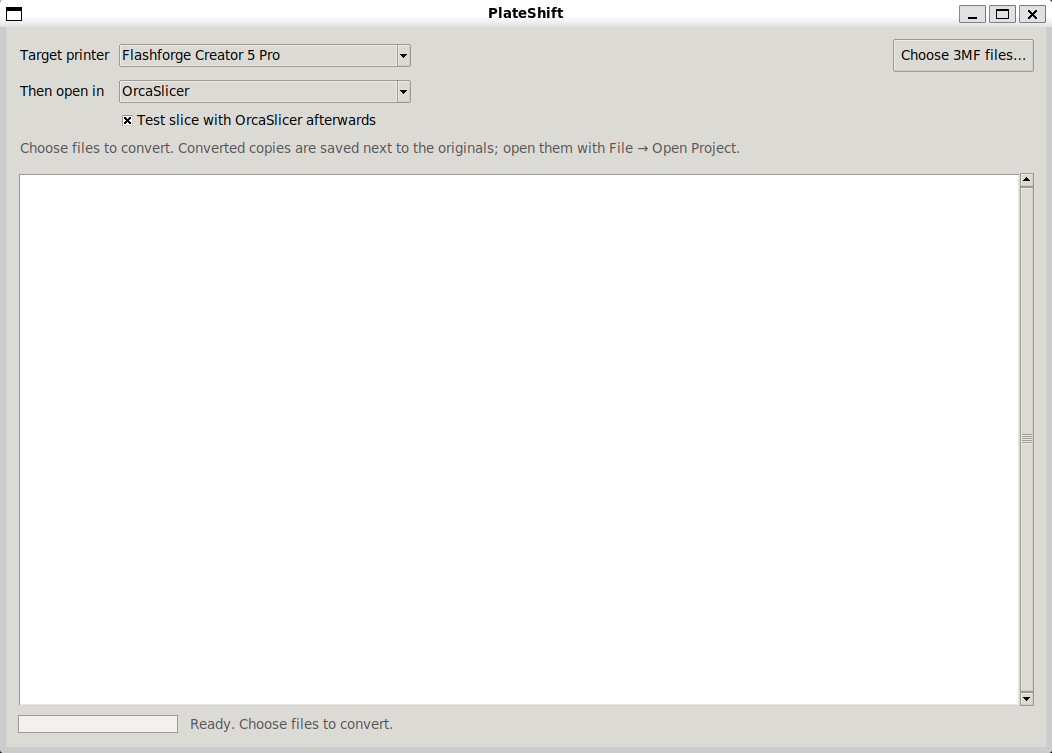
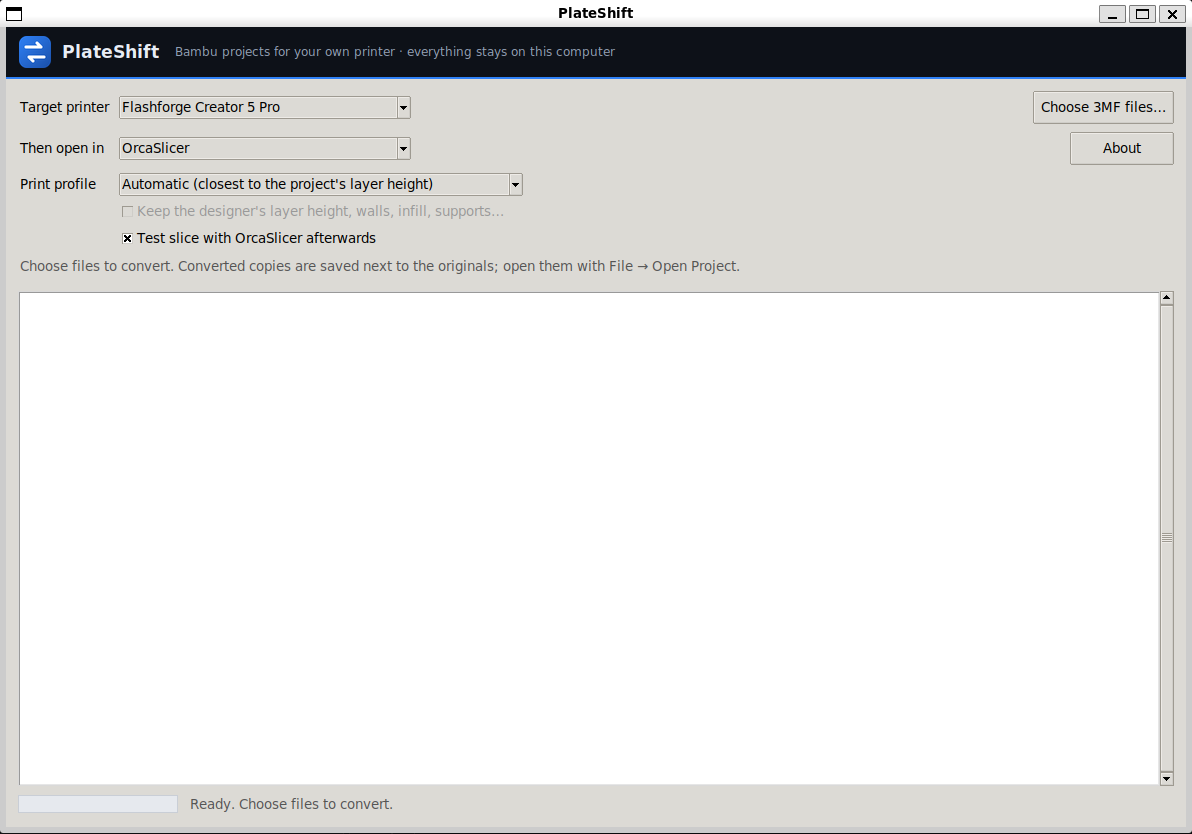
Fit the colour panel in narrow windows and Mac fonts; new Linux screenshots
The filament preset boxes now stretch with the window instead of having a
fixed width that ran off the edge on the Mac, and the hint line wraps.

Changed region(s): [[0.0, 0.0, 1.0, 0.9774]]

diff --git a/plateshift/gui.py b/plateshift/gui.py
@@ -187,6 +187,8 @@ class App:
                               text="Choose files, or drop .3mf files on this window. Converted copies are "
                                    "saved next to the originals; open them with File → Open Project.")
         self.hint.pack(fill="x")
+        # wrap rather than cut off when the window is narrow
+        self.hint.bind("<Configure>", lambda e: self.hint.configure(wraplength=max(200, e.width - 24)))
 
         self.plan_frame = ttk.Frame(root, padding=(12, 6, 12, 0))
 
@@ -416,6 +418,9 @@ class App:
 
         self.heads_frame = ttk.Frame(box)
         self.heads_frame.pack(side="left", fill="both", expand=True, anchor="n")
+        # the preset boxes take whatever room there is, so a narrow window (or the
+        # mac's bigger fonts) doesn't push them off the edge
+        self.heads_frame.columnconfigure(2, weight=1)
         options = sorted(plan.candidates, key=lambda p: (not p.get("_user"), p["name"].lower()))
         self.preset_names = {_display(p): p["name"] for p in options}
         self.head_vars: dict[int, tk.StringVar] = {}
@@ -467,7 +472,7 @@ class App:
                 var.set(by_name.get(name, ""))
                 self._quiet = False
             ttk.Combobox(self.heads_frame, textvariable=var, values=list(self.preset_names),
-                         width=48, state="readonly").grid(row=row, column=2, sticky="we", padx=(8, 0), pady=1)
+                         width=30, state="readonly").grid(row=row, column=2, sticky="we", padx=(8, 0), pady=1)
             if note:  # e.g. no TPU preset, so PLA was used
                 row += 1
                 ttk.Label(self.heads_frame, text=f"⚠ {note}", foreground=WARN_COLOUR).grid(

diff --git a/tools/screenshots.py b/tools/screenshots.py
@@ -33,7 +33,7 @@ def main() -> int:
     args.out.mkdir(parents=True, exist_ok=True)
 
     work = Path(tempfile.mkdtemp())
-    src = write_project(work / "bambu x1c project.3mf", e2e.bambu_project(args.profiles),
+    src = write_project(work / "Colour cubes.3mf", e2e.bambu_project(args.profiles),
                         [[(60 + 40 * i, 128) for i in range(4)]], size=20,
                         paint={i: paint.encode(i) for i in range(1, 5)})
     settings = work / "settings.json"
